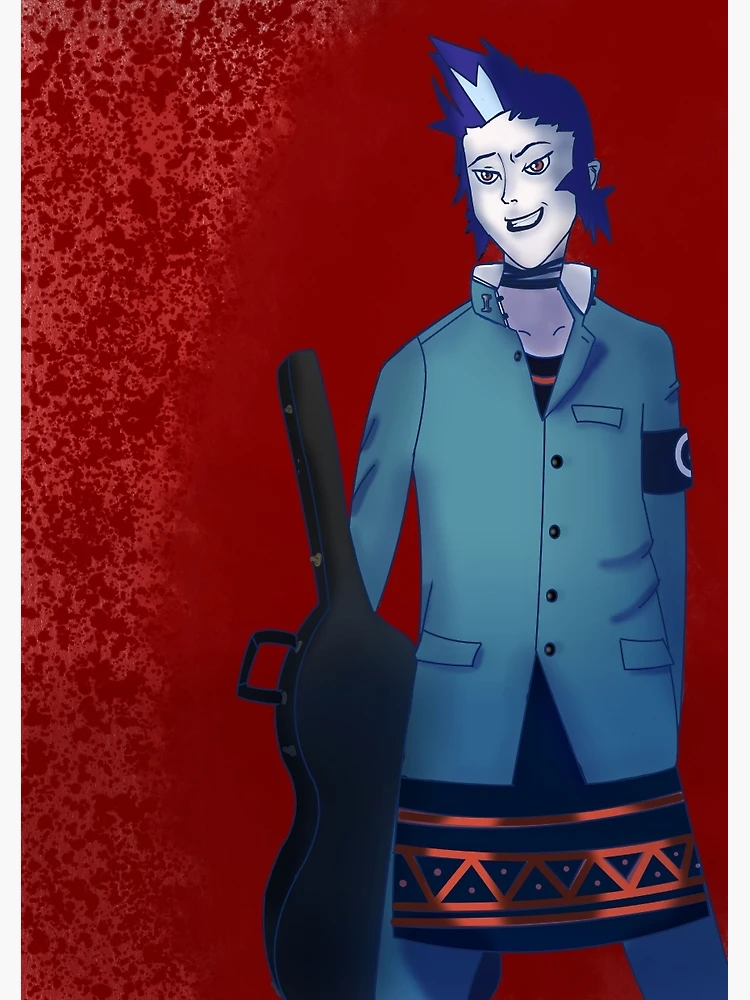
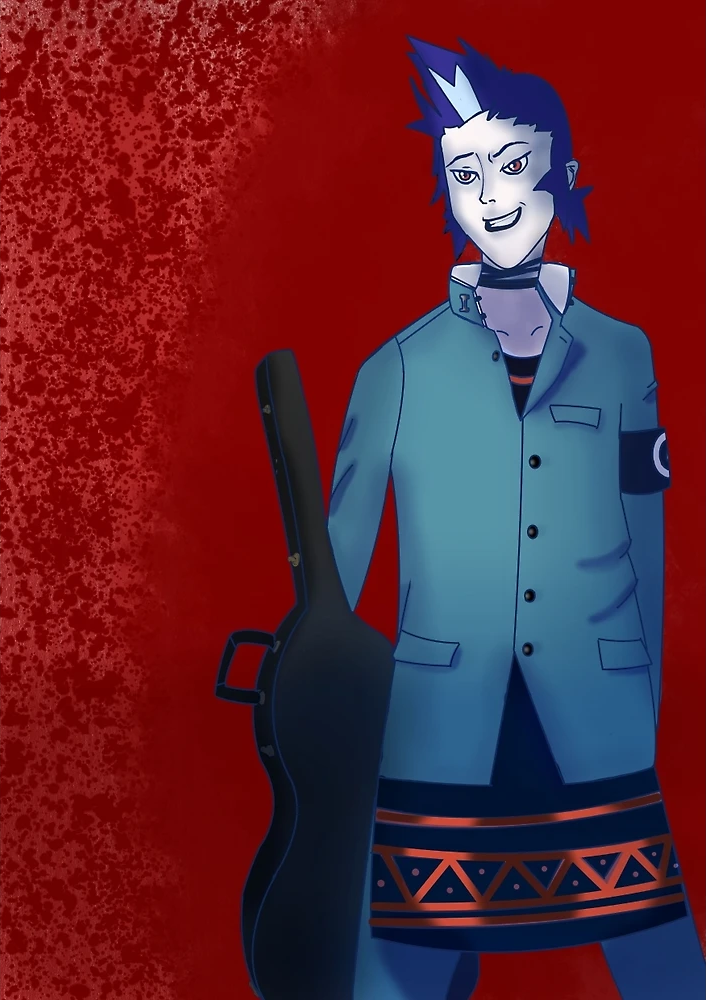
Update jagger.css
- Added media tags for small height displays
- Get rid of the white borders on the eikichi painting
- Made headers fade-in longer

diff --git a/jagger.css b/jagger.css
@@ -127,7 +127,7 @@ h1 {
     margin: 40px;
 
     animation-name: reveal;
-    animation-duration: 2s;
+    animation-duration: 2.5s;
 }
 
 h3 {
@@ -447,6 +447,17 @@ footer {
     }
 }
 
+/* For short displays */
+@media (max-height:675px) {
+    .container-home {
+        scale: 0.5;
+    }
+
+    .footer-home {
+        padding-bottom:190px;
+    }
+}
+
 /* For mobile displays */
 @media (max-width:768px) {
     .container-home {
@@ -472,6 +483,8 @@ footer {
         display:block;
     }
 }
+
+
 
 @keyframes revealLeft {
     from {
